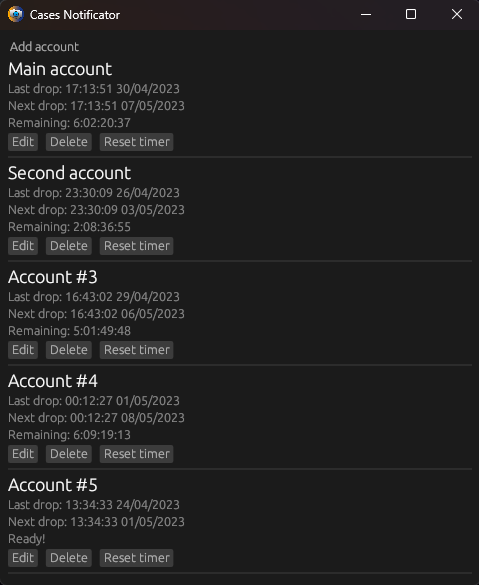
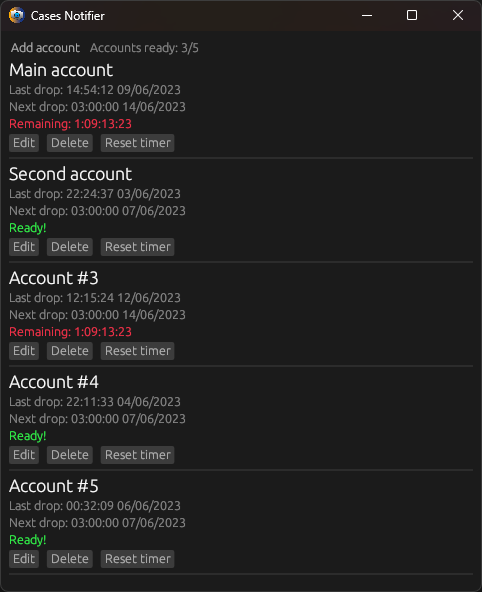
new case drop timer, colored labels

diff --git a/src/main.rs b/src/main.rs
@@ -1,8 +1,8 @@
 #![cfg_attr(not(debug_assertions), windows_subsystem = "windows")] // hide console window on Windows in release
 
-use chrono::{DateTime, Local, TimeZone};
+use chrono::{DateTime, Local, TimeZone, Datelike, NaiveDateTime};
 use eframe::egui;
-use egui::menu;
+use egui::{menu, Color32};
 use std::io::{Read, Write};
 
 fn load_icon(buffer: &[u8]) -> eframe::IconData {
@@ -71,7 +71,7 @@ impl Account {
     }
 
     fn get_next_date(&self) -> u64 {
-        self.date + 604_800
+        next_wednesday(self.date)
     }
 
     fn get_remaining_time(&self) -> u64 {
@@ -142,6 +142,18 @@ fn load_accounts() -> Vec<Account> {
     accounts
 }
 
+fn next_wednesday(timestamp: u64) -> u64 {
+    let datetime = NaiveDateTime::from_timestamp_opt(timestamp as i64, 0).unwrap();
+
+    let mut next_wednesday = datetime.date().succ_opt().unwrap();
+    while next_wednesday.weekday() != chrono::Weekday::Wed {
+        next_wednesday = next_wednesday.succ_opt().unwrap();
+    }
+
+    let next_wednesday_utc = NaiveDateTime::new(next_wednesday, chrono::NaiveTime::from_hms_opt(0, 0, 0).unwrap());
+    next_wednesday_utc.timestamp() as u64
+}
+
 impl eframe::App for CasesNotifier {
     fn update(&mut self, ctx: &egui::Context, _frame: &mut eframe::Frame) {
         egui::CentralPanel::default().show(ctx, |ui| {
@@ -157,6 +169,14 @@ impl eframe::App for CasesNotifier {
                     self.editing_date = format_date(self.accounts[self.account_to_edit].get_date());
                     save_accounts(&self.accounts);
                 }
+
+                let mut count = 0;
+                for account in &self.accounts {
+                    if account.get_remaining_time() <= 0 {
+                        count += 1;
+                    }
+                }
+                ui.label(format!("Accounts ready: {}/{}", count, self.accounts.len()));
             });
 
             // scrollable area
@@ -173,9 +193,9 @@ impl eframe::App for CasesNotifier {
                     ));
                     let remaining_time = account.get_remaining_time();
                     if remaining_time > 0 {
-                        ui.label(format!("Remaining: {}", format_time(remaining_time)));
+                        ui.colored_label(Color32::from_rgb(255, 50, 75), format!("Remaining: {}", format_time(remaining_time)));
                     } else {
-                        ui.label("Ready!");
+                        ui.colored_label(Color32::from_rgb(50, 255, 75), "Ready!");
                     }
 
                     ui.horizontal(|ui| {

diff --git a/README.md b/README.md
@@ -1,10 +1,12 @@
 # Case Notifier
 ### Always know when it's time to farm another case in Counter-Strike.
 
+> Note: Developers recently changed the way cases drop. They now act as a level-up drop, which is reset every wednesday. This app was updated to count time until next wednesday.
+
 ![Screenshot](screenshot.png)
 
 ## How to use:
 1. Add a new account by clicking "Add account" and entering any name and time of last case drop.
 2. New account will be added to the list.
 3. It will show a countdown until the next case drop, and then show "Ready!" when it's time to farm another case.
-4. When you get a case, click "Reset timer" to reset the timer for that account. It will be a week from the time you clicked "Reset timer", because that's how long it takes for the timer to reset in Counter-Strike.
+4. When you get a case, click "Reset timer" to reset the timer for that account. It will count time until next wednesday from the time you clicked "Reset timer".
